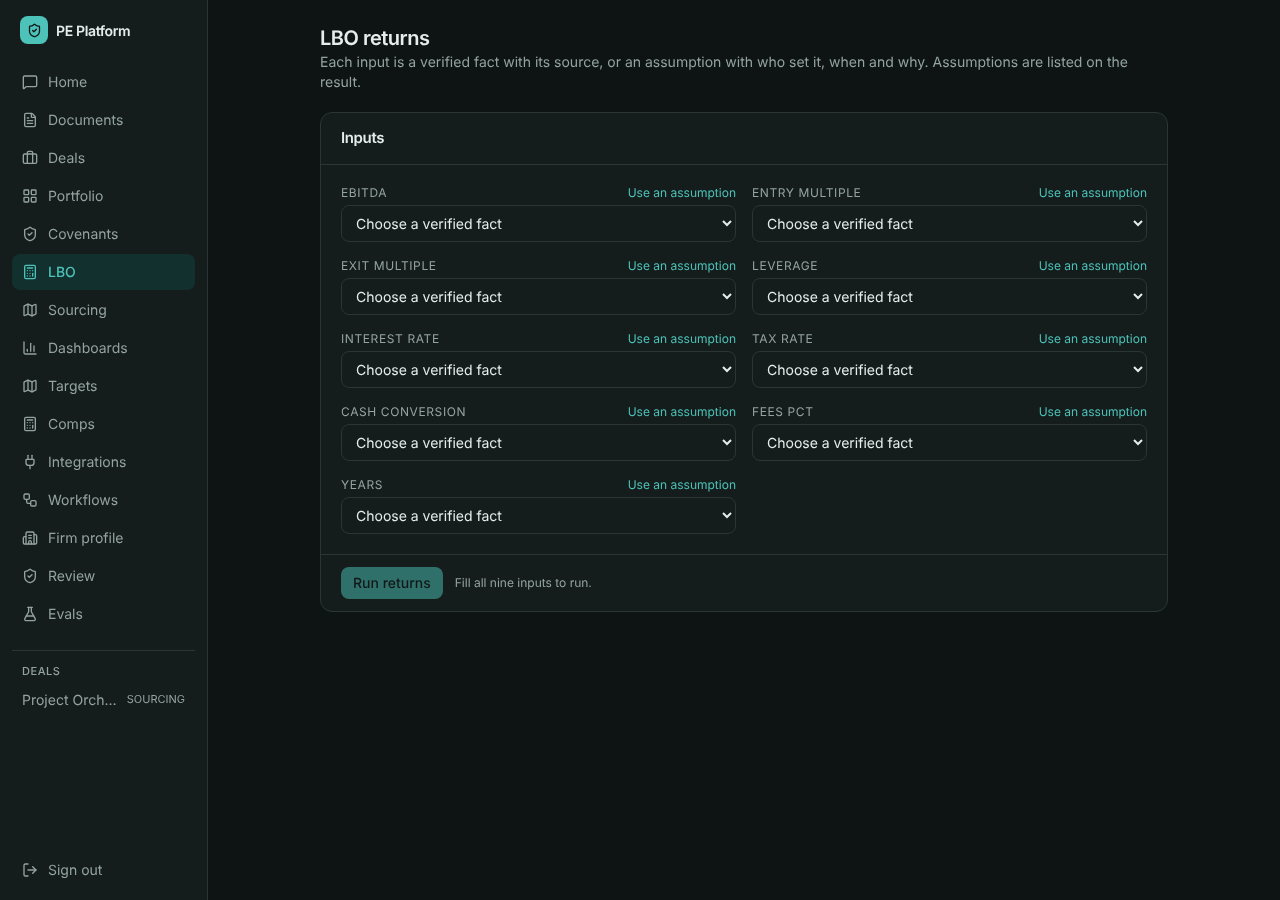
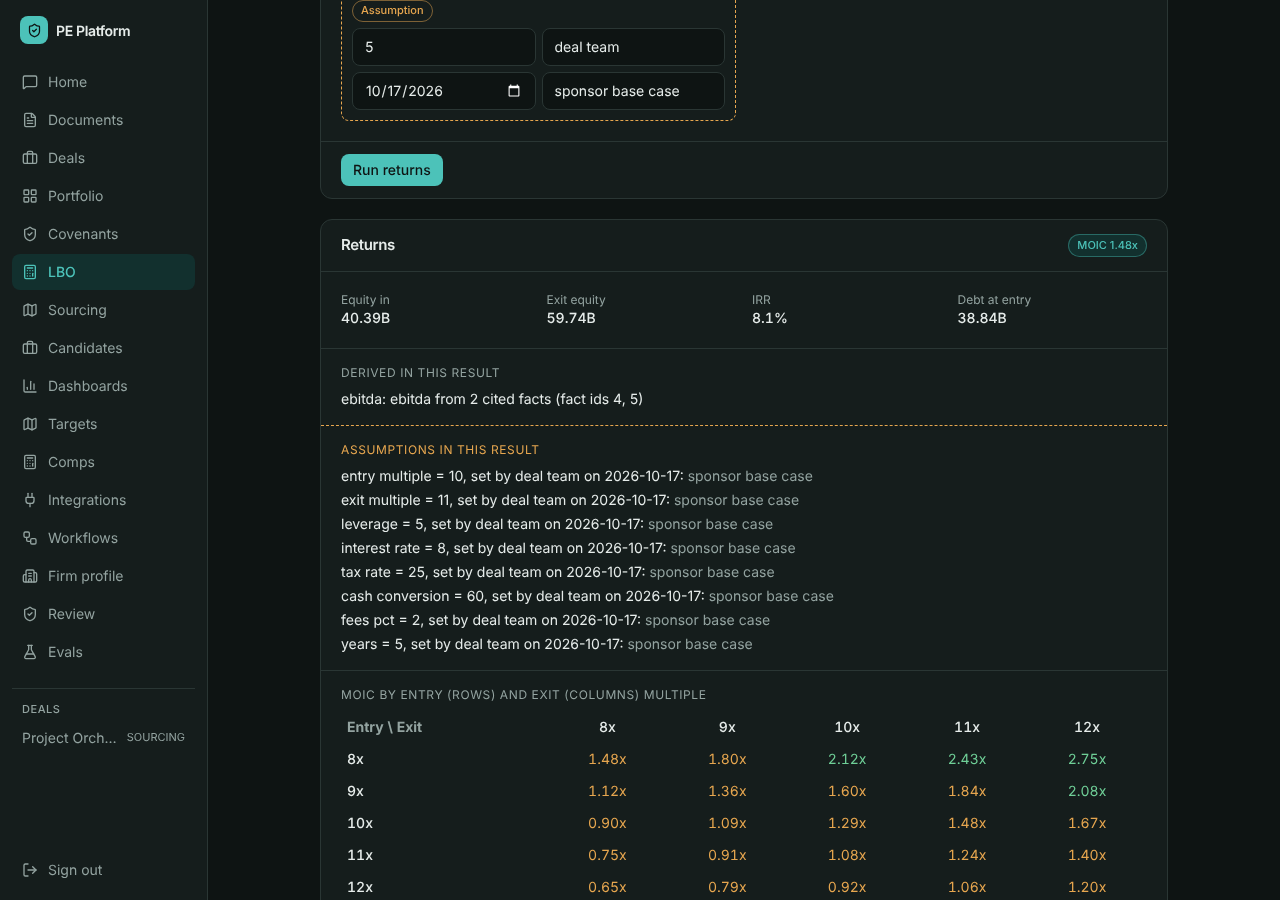
Derived facts, candidate watch screen, live sourcing defaults (#266)
A derived fact is computed from cited components on every read, never
stored. EBITDA = operating income + D&A; each component keeps its citation.
The LBO takes a derived input and lists it on the result. Seed adds 3M
FY2019 D&A from the 10-K. Candidate watch lists weekly search candidates
for review. Sourcing sends a date window and defaults to 10-K. make demo
asks once for an SEC User-Agent and writes nothing personal to the repo.

Claude-Session: https://claude.ai/code/session_01UJT41KsMGqU6qYoKxNBJjn

diff --git a/apps/web/src/Lbo.tsx b/apps/web/src/Lbo.tsx
@@ -8,7 +8,10 @@ import { Badge, Button, Card, CardHead, Empty, ErrorLine, Input, Page } from "./
 const REQUIRED = ["ebitda", "entry_multiple", "exit_multiple", "leverage", "interest_rate", "tax_rate", "cash_conversion", "fees_pct", "years"] as const;
 const AXIS = ["8", "9", "10", "11", "12"];
 
-type Pick = { mode: "fact"; factId: string } | { mode: "assumption"; value: string; set_by: string; set_on: string; reason: string };
+type Pick =
+  | { mode: "fact"; factId: string }
+  | { mode: "derived"; entity: string; period: string }
+  | { mode: "assumption"; value: string; set_by: string; set_on: string; reason: string };
 const EMPTY: Pick = { mode: "fact", factId: "" };
 
 /** Sponsor returns from cited inputs. Assumptions are listed on the output and never shown as sourced. */
@@ -23,7 +26,9 @@ export function Lbo() {
   const set = (k: string, p: Pick) => setPick({ ...pick, [k]: p });
   const ready = REQUIRED.every((k) => {
     const p = current(k);
-    return p.mode === "fact" ? p.factId !== "" : p.value !== "" && p.set_by !== "" && p.set_on !== "" && p.reason !== "";
+    if (p.mode === "fact") return p.factId !== "";
+    if (p.mode === "derived") return p.entity !== "" && p.period !== "";
+    return p.value !== "" && p.set_by !== "" && p.set_on !== "" && p.reason !== "";
   });
 
   const run = async () => {
@@ -31,9 +36,9 @@ export function Lbo() {
     const inputs: LboRequest["inputs"] = {};
     for (const k of REQUIRED) {
       const p = current(k);
-      inputs[k] = p.mode === "fact"
-        ? { fact_id: Number(p.factId) }
-        : { value: p.value, assumption: { set_by: p.set_by, set_on: p.set_on, reason: p.reason } };
+      if (p.mode === "fact") inputs[k] = { fact_id: Number(p.factId) };
+      else if (p.mode === "derived") inputs[k] = { derived: { formula: k, entity: p.entity, period: p.period } };
+      else inputs[k] = { value: p.value, assumption: { set_by: p.set_by, set_on: p.set_on, reason: p.reason } };
     }
     try {
       setResult(await api2.lboReturns({ inputs, entry_multiples: AXIS, exit_multiples: AXIS }));
@@ -57,10 +62,11 @@ export function Lbo() {
               <div key={k} className="text-sm">
                 <div className="mb-1 flex items-center justify-between">
                   <span className="text-xs uppercase tracking-wider text-mut">{k.replace(/_/g, " ")}</span>
-                  <button type="button" className="text-xs text-acc"
-                    onClick={() => set(k, p.mode === "fact" ? { mode: "assumption", value: "", set_by: "", set_on: "", reason: "" } : EMPTY)}>
-                    {p.mode === "fact" ? "Use an assumption" : "Use a verified fact"}
-                  </button>
+                  {p.mode === "fact" && k === "ebitda" && <button type="button" className="text-xs text-acc"
+                    onClick={() => set(k, { mode: "derived", entity: "", period: "" })}>Derive from components</button>}
+                  {p.mode !== "fact" && <button type="button" className="text-xs text-acc" onClick={() => set(k, EMPTY)}>Use a verified fact</button>}
+                  {p.mode === "fact" && <button type="button" className="ml-3 text-xs text-acc"
+                    onClick={() => set(k, { mode: "assumption", value: "", set_by: "", set_on: "", reason: "" })}>Use an assumption</button>}
                 </div>
                 {p.mode === "fact" ? (
                   <select value={p.factId} onChange={(e) => set(k, { mode: "fact", factId: e.target.value })}
@@ -68,6 +74,13 @@ export function Lbo() {
                     <option value="">Choose a verified fact</option>
                     {facts.data?.map((f) => <option key={f.id} value={f.id}>{label(f)}</option>)}
                   </select>
+                ) : p.mode === "derived" ? (
+                  <div className="grid grid-cols-2 gap-1.5 rounded-lg border border-line p-2.5">
+                    <Badge tone="acc">Derived: operating income + D&amp;A</Badge>
+                    <span />
+                    <Input placeholder="Entity, e.g. 3M Company" aria-label={`${k} entity`} value={p.entity} onChange={(e) => set(k, { ...p, entity: e.target.value })} />
+                    <Input placeholder="Period, e.g. FY2019" aria-label={`${k} period`} value={p.period} onChange={(e) => set(k, { ...p, period: e.target.value })} />
+                  </div>
                 ) : (
                   <div className="space-y-1.5 rounded-lg border border-dashed border-warn p-2.5">
                     <Badge tone="warn">Assumption</Badge>
@@ -97,6 +110,12 @@ export function Lbo() {
             <div><dt className="text-xs text-mut">IRR</dt><dd className="tnum font-medium">{result.irr === null ? "n/a" : `${(Number(result.irr) * 100).toFixed(1)}%`}</dd></div>
             <div><dt className="text-xs text-mut">Debt at entry</dt><dd className="tnum font-medium">{fmtAmount(result.debt, "")}</dd></div>
           </dl>
+          {result.derived.length > 0 && (
+            <div className="border-t border-line px-5 py-4 text-sm">
+              <p className="mb-2 text-xs uppercase tracking-wider text-mut">Derived in this result</p>
+              {result.derived.map((d) => <p key={d.input}>{d.input.replace(/_/g, " ")}: {d.formula} from {d.components.length} cited facts (fact ids {d.components.join(", ")})</p>)}
+            </div>
+          )}
           {result.assumptions.length > 0 && (
             <div className="border-t border-dashed border-warn px-5 py-4 text-sm">
               <p className="mb-2 text-xs uppercase tracking-wider text-warn">Assumptions in this result</p>

diff --git a/apps/web/src/api.ts b/apps/web/src/api.ts
@@ -61,13 +61,14 @@ export interface EvalRunRow { id: number; suite: string; ran_at: string; note: s
 /** Cited input: a verified fact id, as /lbo/returns requires. Multiples are inputs too, so they must be cited. */
 export interface LboAssumption { value: string; set_by: string; set_on: string; reason: string }
 export interface LboRequest {
-  inputs: Record<string, { fact_id: number } | { value: string; assumption: Omit<LboAssumption, "value"> }>;
+  inputs: Record<string, { fact_id: number } | { derived: { formula: string; entity: string; period: string } } | { value: string; assumption: Omit<LboAssumption, "value"> }>;
   entry_multiples?: string[]; exit_multiples?: string[];
 }
 export interface LboResult {
   entry_ev: string; debt: string; fees: string; equity: string; exit_ev: string; exit_net_debt: string; exit_equity: string;
   moic: string; irr: string | null; dividends: string; sensitivity: [string, string, string | null, string | null][] | null;
   assumptions: { input: string; value: string; set_by: string; set_on: string; reason: string }[];
+  derived: { input: string; formula: string; components: number[] }[];
 }
 export interface CovenantTest { period: string; status: string; value: string; threshold: string; unit?: string }
 export interface CovenantStatus {
@@ -77,6 +78,7 @@ export interface CovenantStatus {
 /** A sourcing candidate from a live search. Not imported until someone adds it as a target. */
 export interface SearchCandidate { name: string; source_url: string | null; form?: string; file_date?: string; already_imported?: boolean }
 export interface SearchOut { total: number; items: SearchCandidate[] }
+export interface AlertRow { id: number; kind: string; severity: string; title: string; detail: string; fact_ids: number[]; status: string; created_at: string }
 export interface Breach { company: string; kpi_metric: string; period: string; status: string; value: string; threshold: string; unit?: string }
 export interface ConflictSource { fact_id: number; value: string; documents: { document_id: string; filename: string | null; page: number; quote: string }[] }
 export interface Conflict {
@@ -167,7 +169,9 @@ export const api2 = {
   legalTerms: (docId: string, docType: string) => call<LegalOut>(`/documents/${docId}/legal-terms?doc_type=${docType}`),
   conflicts: () => call<Conflict[]>("/facts/conflicts"),
   evals: () => call<EvalRunRow[]>("/evals?limit=200"),
-  searchEdgar: (body: { query: string; forms: string[]; since?: string; until?: string; limit?: number }) =>
+  alerts: (status?: string) => call<AlertRow[]>(`/alerts${status ? `?status=${status}` : ""}`),
+  setAlertStatus: (id: number, status: string) => call<AlertRow>(`/alerts/${id}/status`, "POST", { status }),
+  searchEdgar: (body: { query: string; forms: string[]; since: string; until: string; limit?: number }) =>
     call<SearchOut>("/targets/search/edgar", "POST", body),
   searchCompaniesHouse: (body: { query: string; limit?: number }) => call<SearchOut>("/targets/search/companies-house", "POST", body),
   lboReturns: (body: LboRequest) => call<LboResult>("/lbo/returns", "POST", body),

diff --git a/apps/web/src/CandidateWatch.tsx b/apps/web/src/CandidateWatch.tsx
@@ -1,0 +1,37 @@
+import { api2, AlertRow } from "./api";
+import { useLoad } from "./hooks";
+import { Badge, Button, Card, CardHead, Empty, ErrorLine, Page } from "./ui";
+
+/** Candidate watch: companies the weekly search found on the firm's sectors, each to be triaged by a person. */
+export function CandidateWatch() {
+  const { data, error, reload, setError } = useLoad(async () => (await api2.alerts()).filter((a) => a.kind === "candidate"));
+  const mark = (id: number, status: string) => api2.setAlertStatus(id, status).then(reload).catch((e) => setError(String(e)));
+  const open = data?.filter((a) => a.status === "new") ?? [];
+  const done = data?.filter((a) => a.status !== "new") ?? [];
+  const row = (a: AlertRow) => (
+    <li key={a.id} className="flex flex-wrap items-center gap-3 px-5 py-3 text-sm">
+      <div className="min-w-0 flex-1">
+        <p className="font-medium">{a.title}</p>
+        <p className="mt-0.5 text-xs text-mut">{a.detail}</p>
+      </div>
+      <Badge tone={a.status === "new" ? "acc" : "mut"}>{a.status}</Badge>
+      {a.status === "new" && <Button onClick={() => void mark(a.id, "read")}>Mark read</Button>}
+    </li>
+  );
+  return (
+    <Page title="Candidate watch" hint="Companies the weekly search found on the firm's sectors. Each one waits for a person to review it. Revenue is not checked here.">
+      <ErrorLine e={error} />
+      <Card>
+        <CardHead title="New" right={<Badge tone={open.length ? "acc" : "ok"}>{open.length}</Badge>} />
+        {data && open.length === 0 && <Empty>No new candidates.</Empty>}
+        <ul className="divide-y divide-line">{open.map(row)}</ul>
+      </Card>
+      {done.length > 0 && (
+        <Card>
+          <CardHead title="Read or dismissed" />
+          <ul className="divide-y divide-line">{done.map(row)}</ul>
+        </Card>
+      )}
+    </Page>
+  );
+}

diff --git a/apps/web/src/App.tsx b/apps/web/src/App.tsx
@@ -16,6 +16,7 @@ import { Deals, EvalDashboard, PortfolioPanel, ReviewQueue } from "./Panels";
 import { Lbo } from "./Lbo";
 import { Covenants } from "./Covenants";
 import { Sourcing } from "./Sourcing";
+import { CandidateWatch } from "./CandidateWatch";
 import { SourceProvider } from "./source";
 import { Button, Card } from "./ui";
 import clsx from "clsx";
@@ -28,6 +29,7 @@ const NAV: { id: string; icon: ReactNode }[] = [
   { id: "Covenants", icon: <ShieldCheck size={16} /> },
   { id: "LBO", icon: <Calculator size={16} /> },
   { id: "Sourcing", icon: <Map size={16} /> },
+  { id: "Candidates", icon: <Briefcase size={16} /> },
   { id: "Dashboards", icon: <BarChart3 size={16} /> },
   { id: "Targets", icon: <Map size={16} /> },
   { id: "Comps", icon: <Calculator size={16} /> },
@@ -119,6 +121,7 @@ export function App() {
         {tab === "Covenants" && <Covenants />}
         {tab === "LBO" && <Lbo />}
         {tab === "Sourcing" && <Sourcing />}
+        {tab === "Candidates" && <CandidateWatch />}
         {tab === "Dashboards" && <Dashboards />}
         {tab === "Targets" && <Targets />}
         {tab === "Comps" && <Comps />}

diff --git a/apps/web/src/Sourcing.tsx b/apps/web/src/Sourcing.tsx
@@ -3,6 +3,9 @@ import { api2, SearchCandidate } from "./api";
 import { Badge, Button, Card, CardHead, Empty, ErrorLine, Input, Page } from "./ui";
 
 const FORMS = ["10-K", "10-Q", "8-K", "S-1", "424B4"];
+// The EDGAR search needs a date window. Default to the last year so the results are recent.
+const today = () => new Date().toISOString().slice(0, 10);
+const yearAgo = () => new Date(Date.now() - 365 * 864e5).toISOString().slice(0, 10);
 
 /** Sourcing search over live registers. Candidates are listed with the filing they came from; nothing is imported here. */
 export function Sourcing() {
@@ -18,7 +21,7 @@ export function Sourcing() {
     setBusy(true); setError("");
     try {
       const out = register === "edgar"
-        ? await api2.searchEdgar({ query, forms, limit: 50 })
+        ? await api2.searchEdgar({ query, forms: forms.length ? forms : ["10-K"], since: yearAgo(), until: today(), limit: 50 })
         : await api2.searchCompaniesHouse({ query, limit: 50 });
       setItems(out.items); setTotal(out.total);
     } catch (e) { setItems(null); setError(String(e)); }

diff --git a/apps/api/app/main.py b/apps/api/app/main.py
@@ -37,6 +37,7 @@ from app import companies_house as ch_mod
 from app import comps as comps_mod
 from app import covenant_parse as covparse_mod
 from app import debt_parse as debt_parse_mod
+from app import derived as derived_mod
 from app import firm_knowledge as fk
 from app import html_doc as html_doc_mod
 from app import jobs as jobs_mod
@@ -606,6 +607,18 @@ def _calc_out(c: Calc) -> dict:
                        for i in c.inputs]}
 
 
+@app.get("/facts/derived")
+def fact_derived(db: Db, who: Who, formula: str, entity: str, period: str):
+    """A derived value with every component's citation. Recomputed on each call; never stored."""
+    try:
+        d = derived_mod.derive(db, who.tenant, visible_doc_ids(db, who), formula, entity, period)
+    except ValueError as e:
+        raise HTTPException(422, str(e)) from e
+    return {"formula": d.formula, "entity": d.entity, "period": d.period, "unit": d.unit, "value": str(d.value),
+            "components": [{"fact_id": c.fact_id, "metric": c.metric, "value": str(c.value), "sources": c.sources}
+                           for c in d.components]}
+
+
 @app.get("/facts/conflicts")
 def fact_conflicts(db: Db, who: Who, entity: str | None = None, cross_document_only: bool = False):
     """Same entity, metric, period and basis with different values across facts. Reports only."""
@@ -634,6 +647,17 @@ def lbo_returns(body: dict, db: Db, who: Who, xlsx: bool = False):
             src = {"document_id": f.sources[0].document_id, "filename": names.get(f.sources[0].document_id),
                    "page": f.sources[0].page, "quote": f.sources[0].quote}
             cited[name] = lbo_mod.Cited(f.value, src)
+        elif "derived" in spec:
+            # A derived input is computed from its components, each of which carries its own citation.
+            d = spec["derived"] or {}
+            try:
+                dv = derived_mod.derive(db, who.tenant, scope, d.get("formula", ""), d.get("entity", ""), d.get("period", ""))
+            except ValueError as e:
+                raise HTTPException(422, f"{name}: {e}") from e
+            first = dv.components[0].sources[0]
+            src = {"derived": True, "formula": dv.formula, "document_id": first["document_id"], "page": first["page"],
+                   "quote": first["quote"], "components": [c.fact_id for c in dv.components]}
+            cited[name] = lbo_mod.Cited(dv.value, src)
         elif "assumption" in spec:
             # An assumption is a judgement, not a fact: it names who set it, when and why, and never passes the
             # citation gate. Outputs list every assumption so it cannot pass as sourced.
@@ -669,6 +693,8 @@ def lbo_returns(body: dict, db: Db, who: Who, xlsx: bool = False):
             "exit_equity": str(res.exit_equity), "moic": str(res.moic.quantize(Decimal("0.01"))),
             "irr": None if res.irr is None else str(res.irr.quantize(Decimal("0.0001"))),
             "dividends": str(res.dividends), "schedule": res.schedule, "sensitivity": grid,
+            "derived": [{"input": k, "formula": c.source["formula"], "components": c.source["components"]}
+                        for k, c in cited.items() if c.source.get("derived")],
             "assumptions": [{"input": k, "value": str(c.value), "set_by": c.source["set_by"],
                              "set_on": c.source["set_on"], "reason": c.source["reason"]}
                             for k, c in cited.items() if c.source.get("assumption")]}

diff --git a/apps/api/app/derived.py b/apps/api/app/derived.py
@@ -1,0 +1,58 @@
+"""Derived facts: a value computed from cited component facts, never typed in.
+
+A formula names its component metrics and how they combine. Every component must be a verified fact the
+caller can see, in one unit, for one entity and period. Each component keeps its own citation, so a derived
+value opens the same sources a reader would check by hand. Nothing is stored: a derived value is recomputed
+on each read, so it cannot drift from the facts it came from.
+"""
+from __future__ import annotations
+
+from dataclasses import dataclass
+from decimal import Decimal
+
+from sqlalchemy.orm import Session
+
+from app.acl import fact_visible
+from app.models import Fact
+
+# formula name -> component metrics, summed. EBITDA here is operating income plus depreciation and amortization.
+SUMS = {"ebitda": ("operating_income", "depreciation_and_amortization")}
+
+
+@dataclass
+class Component:
+    fact_id: int
+    metric: str
+    value: Decimal
+    sources: list[dict]  # document_id, page, quote, for every citation the component carries
+
+
+@dataclass
+class Derived:
+    formula: str
+    entity: str
+    period: str
+    unit: str
+    value: Decimal
+    components: list[Component]
+
+
+def derive(db: Session, tenant: str, scope: set[str] | None, formula: str, entity: str, period: str) -> Derived:
+    """Raises ValueError when a component is missing, not verified, not visible, or in a different unit."""
+    if formula not in SUMS:
+        raise ValueError(f"unknown formula: {formula}")
+    parts: list[Component] = []
+    units: set[str] = set()
+    for metric in SUMS[formula]:
+        f = (db.query(Fact)
+             .filter(Fact.tenant_id == tenant, Fact.entity == entity, Fact.period == period,
+                     Fact.metric == metric, Fact.status == "verified")
+             .first())
+        if f is None or not f.sources or not fact_visible(f, scope):
+            raise ValueError(f"{metric} for {entity} {period} is not a verified, cited, visible fact")
+        units.add(f.unit)
+        parts.append(Component(f.id, metric, f.value, [
+            {"document_id": s.document_id, "page": s.page, "quote": s.quote} for s in f.sources]))
+    if len(units) != 1:
+        raise ValueError(f"components of {formula} are in different units: {', '.join(sorted(units))}")
+    return Derived(formula, entity, period, units.pop(), sum((c.value for c in parts), Decimal(0)), parts)

diff --git a/apps/api/tests/test_derived.py b/apps/api/tests/test_derived.py
@@ -1,0 +1,49 @@
+from decimal import Decimal
+
+import pytest
+from sqlalchemy.orm import Session
+
+from app import derived
+from app.db import Base, make_engine
+from app.facts import add_verified_fact
+from app.models import Document, PageRow
+
+PAGE = "Operating income 100\nDepreciation and amortization 20\nRevenue 900"
+
+
+def setup_db():
+    engine = make_engine("sqlite:///:memory:")
+    Base.metadata.create_all(engine)
+    s = Session(engine)
+    d = Document(id="e" * 64, tenant_id="t", sha256="s", filename="acme.pdf", n_pages=1)
+    d.pages = [PageRow(number=1, text=PAGE)]
+    s.add(d)
+    s.commit()
+    return s, d.id
+
+
+def fact(s, doc, metric, value, quote, unit="USD"):
+    add_verified_fact(s, tenant_id="t", entity="Acme", metric=metric, period="FY24", value=Decimal(value),
+                      unit=unit, document_id=doc, page=1, quote=quote)
+
+
+def test_ebitda_is_the_sum_of_cited_components_and_keeps_each_citation():
+    s, doc = setup_db()
+    fact(s, doc, "operating_income", 100, "Operating income 100")
+    fact(s, doc, "depreciation_and_amortization", 20, "Depreciation and amortization 20")
+    d = derived.derive(s, "t", None, "ebitda", "Acme", "FY24")
+    assert d.value == Decimal(120) and d.unit == "USD"
+    assert [c.metric for c in d.components] == ["operating_income", "depreciation_and_amortization"]
+    assert all(c.sources and c.sources[0]["page"] == 1 for c in d.components)
+
+
+def test_refuses_a_missing_component_and_mixed_units():
+    s, doc = setup_db()
+    fact(s, doc, "operating_income", 100, "Operating income 100")
+    with pytest.raises(ValueError, match="depreciation_and_amortization"):
+        derived.derive(s, "t", None, "ebitda", "Acme", "FY24")
+    fact(s, doc, "depreciation_and_amortization", 20, "Depreciation and amortization 20", unit="EUR")
+    with pytest.raises(ValueError, match="different units"):
+        derived.derive(s, "t", None, "ebitda", "Acme", "FY24")
+    with pytest.raises(ValueError, match="unknown formula"):
+        derived.derive(s, "t", None, "nonsense", "Acme", "FY24")

diff --git a/apps/api/tests/test_lbo.py b/apps/api/tests/test_lbo.py
@@ -116,3 +116,16 @@ def test_assumption_needs_who_when_why_and_is_listed_not_sourced():
         assert c.post("/lbo/returns", headers=h, json={"inputs": bad}).status_code == 422
     # A sourced run lists no assumptions.
     assert c.post("/lbo/returns", headers=h, json={"inputs": inputs}).json()["assumptions"] == []
+
+
+def test_derived_input_sums_cited_components_and_is_listed():
+    h = new_tenant(c, "lbo-derived")
+    inputs = {k: {"value": v, "source": SRC} for k, v in BASE.items()}
+    ebitda_parts = [("operating_income", "FY2025", "100"), ("depreciation_and_amortization", "FY2025", "20")]
+    ids = [c.post("/facts", headers=h, json={"entity": "Target Co", "metric": m, "period": p, "value": v, "unit": "USD",
+                                             "document_id": None, "page": 1, "quote": "x", "scale": 1}) for m, p, v in ebitda_parts]
+    assert all(r.status_code in (201, 422) for r in ids)
+    body = {"inputs": {**inputs, "ebitda": {"derived": {"formula": "ebitda", "entity": "Target Co", "period": "FY2025"}}}}
+    r = c.post("/lbo/returns", headers=h, json=body)
+    # Without two verified, cited components the derived input is refused, never zero-filled.
+    assert r.status_code == 422 and "ebitda" in r.json()["detail"]

diff --git a/scripts/seed_ixbrl_facts.py b/scripts/seed_ixbrl_facts.py
@@ -25,6 +25,7 @@ FILINGS = [
         ("revenue", "FY2018", ["us-gaap:Revenues"], "2018-01-01/2018-12-31", "Net sales"),
         ("net_income", "FY2019", ["us-gaap:NetIncomeLoss"], FY, "Net income attributable to 3M"),
         ("operating_income", "FY2019", ["us-gaap:OperatingIncomeLoss"], FY, "Operating income"),
+        ("depreciation_and_amortization", "FY2019", ["us-gaap:DepreciationDepletionAndAmortization"], FY, "Depreciation and amortization"),
         ("total_assets", "FY2019", ["us-gaap:Assets"], "@2019-12-31", "Total assets"),
         ("cash", "FY2019", ["us-gaap:CashCashEquivalentsRestrictedCashAndRestrictedCashEquivalentsIncludingDisposalGroupAndDiscontinuedOperations"], "@2019-12-31", "Cash and cash equivalents"),
         ("long_term_debt", "FY2019", ["us-gaap:LongTermDebtNoncurrent"], "@2019-12-31", "Long-term debt"),

diff --git a/README.md b/README.md
@@ -50,7 +50,8 @@ See [docs/ARCHITECTURE.md](docs/ARCHITECTURE.md) for the full list.
 make demo
 ```
 
-Starts the API on SQLite, seeds it with three real 10-K filings (3M, Hertz, Sotera) when `data/demo/edgar`
+Asks once for an SEC User-Agent (your name and contact) so live EDGAR search works. Leave it blank to skip; nothing
+is written to the repo. Starts the API on SQLite, seeds it with three real 10-K filings (3M, Hertz, Sotera) when `data/demo/edgar`
 or `DATA_DIR` holds them, builds the web UI, and prints the URL and API key. Open http://localhost:5173 and
 paste the key. Stop with Ctrl+C. Logs go to a temp folder, or to `DEMO_DIR` if you set it.
 
